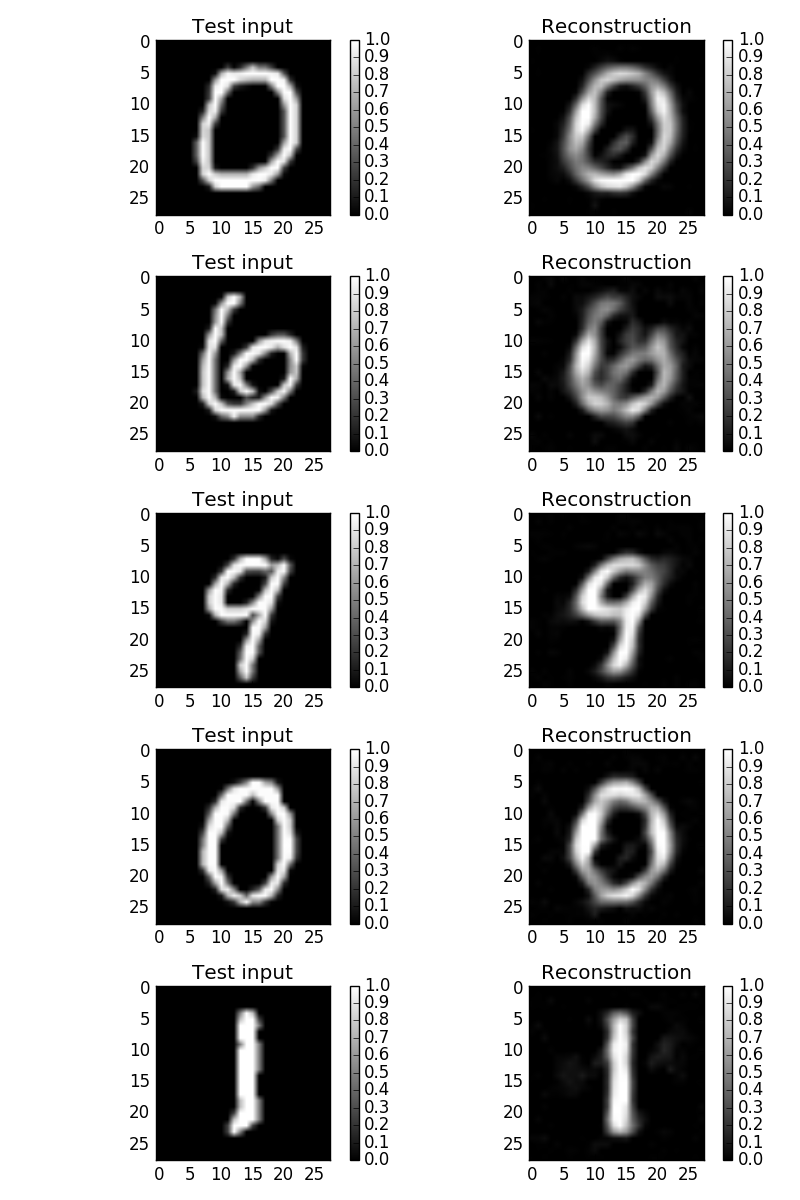
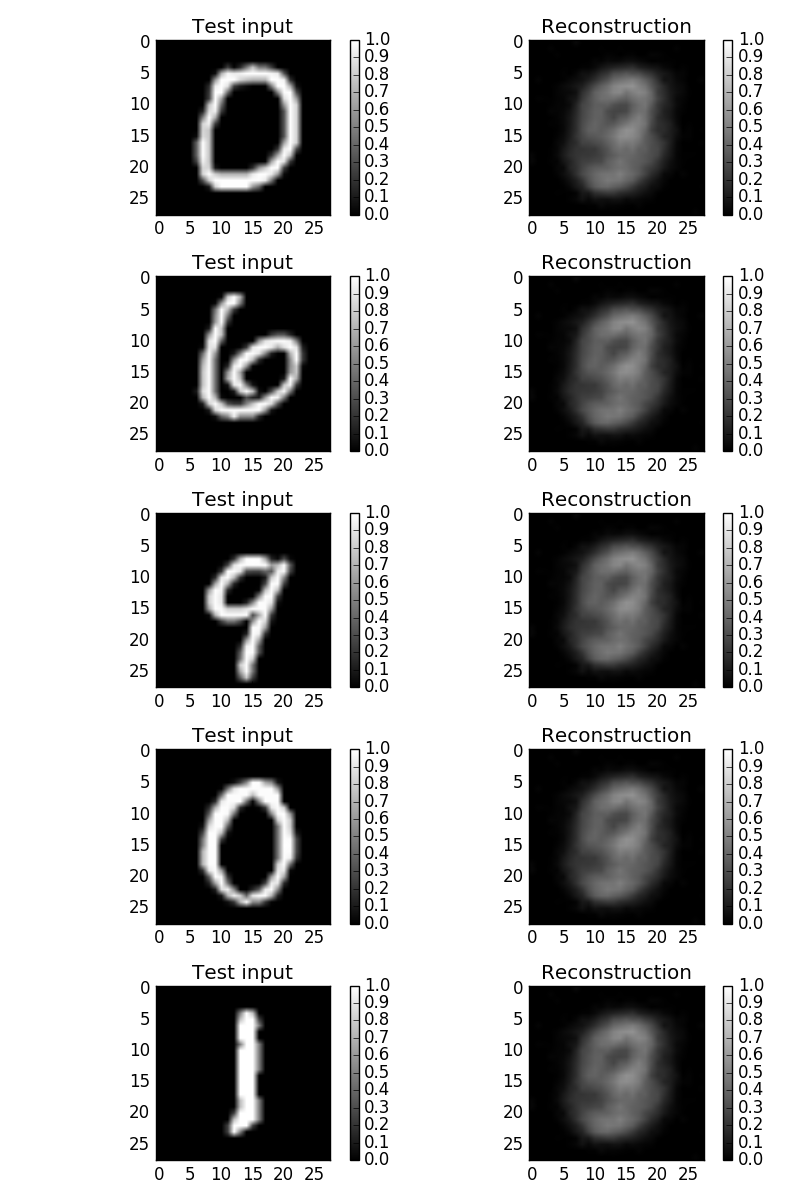
remove regularization loss

diff --git a/vae.py b/vae.py
@@ -92,10 +92,10 @@ def recognition_network():
     # regularization loss
     regularization = -0.5 * tf.reduce_sum(1 + encoder_logvar - tf.pow(encoder_mu, 2) - tf.exp(encoder_logvar),
                                           reduction_indices=1)
-    l2_loss = tf.nn.l2_loss(W_encoder_h_1) + tf.nn.l2_loss(W_encoder_h_2) + tf.nn.l2_loss(
-        W_enconder_h_mu) + tf.nn.l2_loss(W_enconder_h_var)
+    # l2_loss = tf.nn.l2_loss(W_encoder_h_1) + tf.nn.l2_loss(W_encoder_h_2) + tf.nn.l2_loss(
+    # W_enconder_h_mu) + tf.nn.l2_loss(W_enconder_h_var)
 
-    return z, (regularization + l2_loss)
+    return z, regularization
 
 
 # Encoder Model
@@ -127,16 +127,15 @@ def generator_network():
     x_hat = tf.add(tf.matmul(decoder_h_2, W_decoder_r), b_decoder_r)
     tf.summary.image('x_hat', tf.reshape(x_hat[0], [1, 28, 28, 1]))
 
-    l2_loss = tf.nn.l2_loss(W_decoder_h_1) + tf.nn.l2_loss(W_decoder_h_2) + tf.nn.l2_loss(
-        W_decoder_r)
+    # l2_loss = tf.nn.l2_loss(W_decoder_h_1) + tf.nn.l2_loss(W_decoder_h_2) + tf.nn.l2_loss(W_decoder_r)
 
-    return x_hat, l2_loss
+    return x_hat
 
 
 # Decoder Model
-x_hat, l2_loss = generator_network()
+x_hat = generator_network()
 
-reconstruction_loss = tf.reduce_sum(tf.squared_difference(x_hat, x), reduction_indices=1) + l2_loss
+reconstruction_loss = tf.reduce_sum(tf.squared_difference(x_hat, x), reduction_indices=1)
 
 loss = tf.reduce_mean(recognition_loss + reconstruction_loss)
 tf.summary.scalar('loss', loss)
@@ -259,5 +258,5 @@ def svm_classifier():
 
 train_neural_network(10000)
 # test_reconstruction()
-svm_classifier()
+# svm_classifier()
 session.close()
